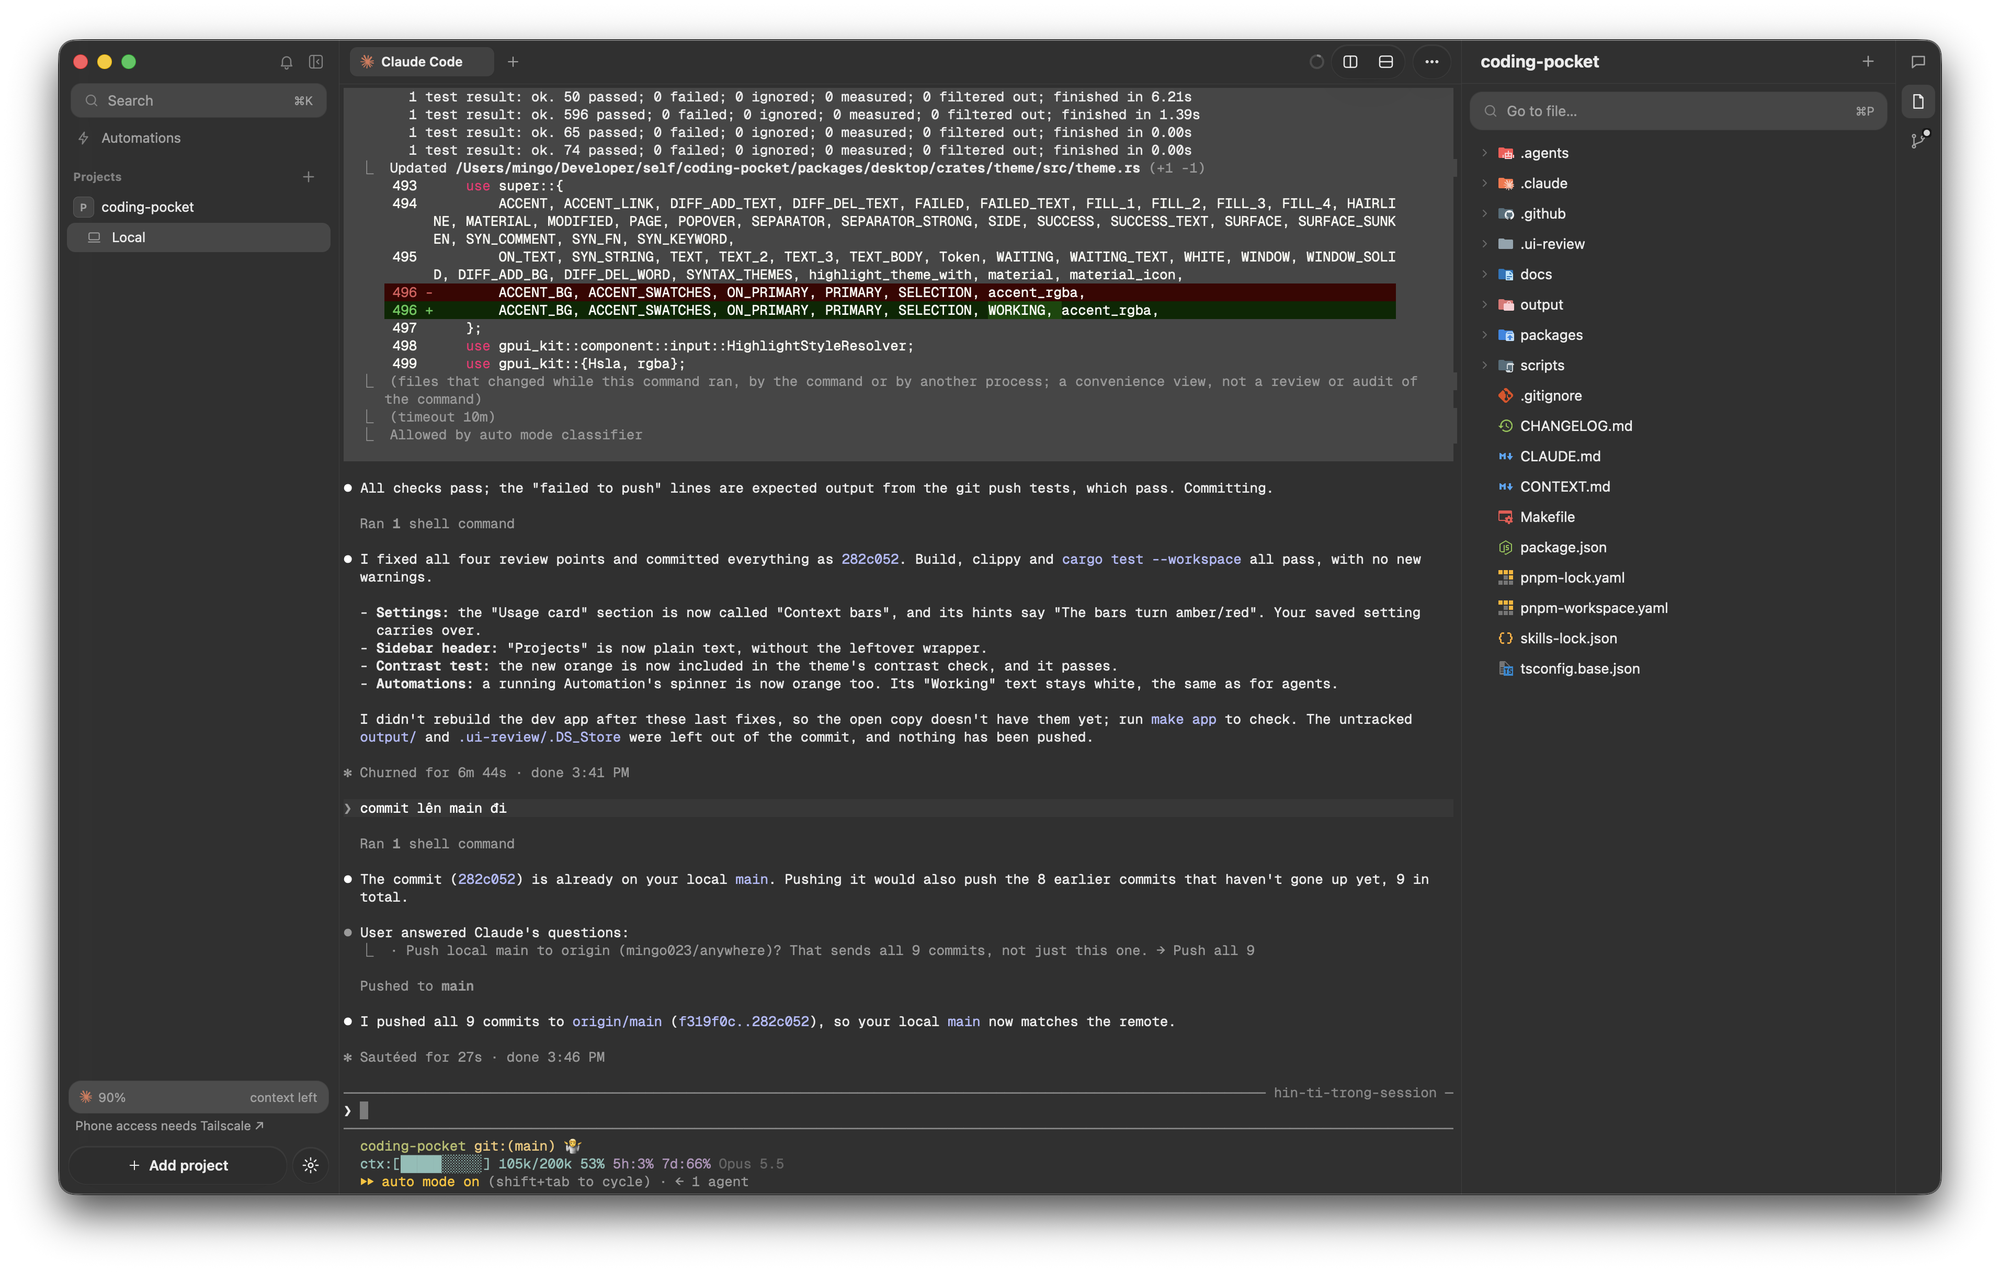
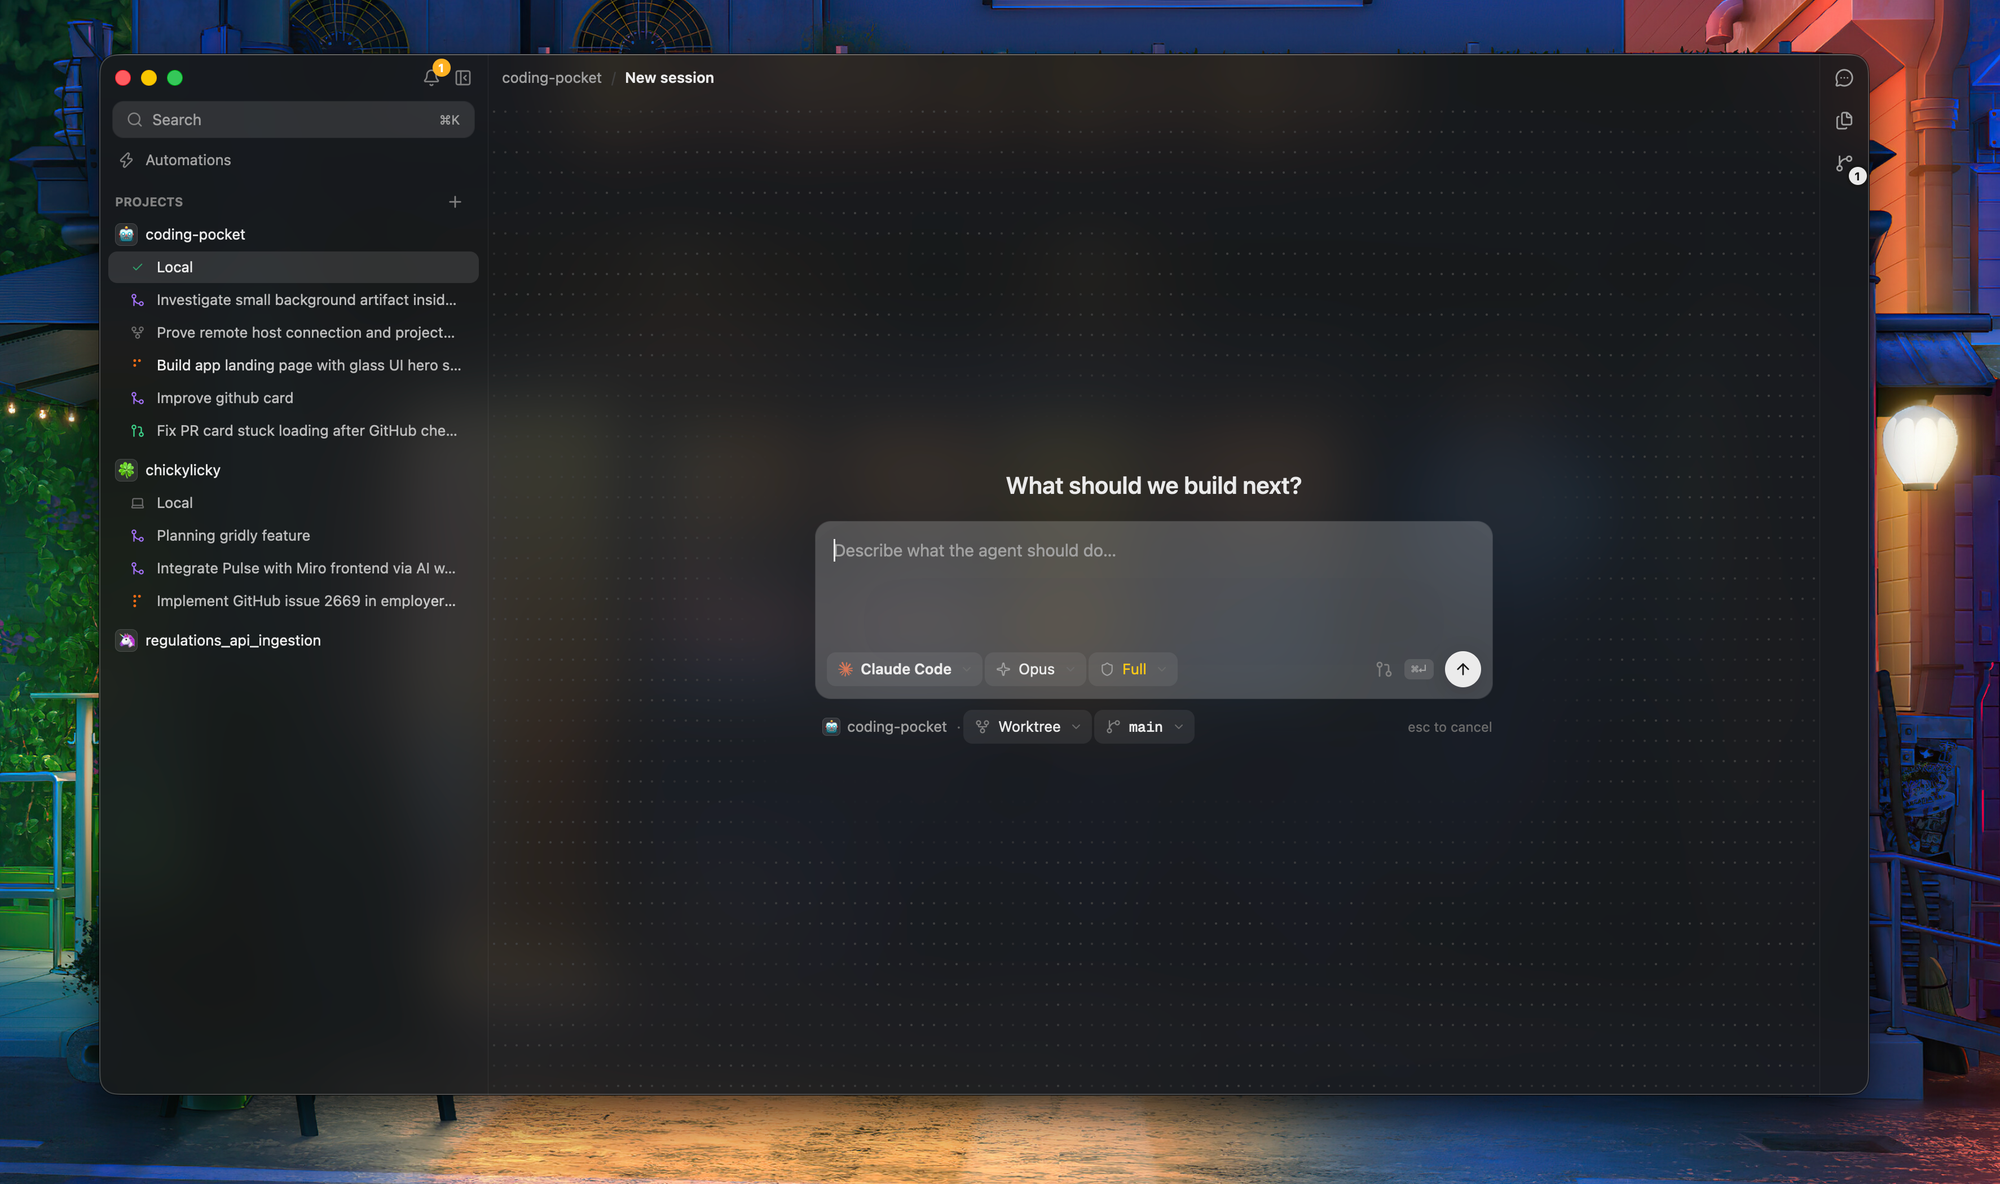
README leads with what Anywhere is, and links the website and architecture

diff --git a/README.md b/README.md
@@ -1,23 +1,51 @@
-# Anywhere
+<h1 align="center">Anywhere</h1>
 
-Watch and drive coding agents running on your Mac, from the desktop app and your phone.
+<p align="center">
+  Watch and drive your Claude Code and Codex agents, from your Mac and your phone.
+</p>
+
+<p align="center">
+  <a href="https://getanywhere.dev">Website</a> ·
+  <a href="https://github.com/mingo023/anywhere/releases/latest/download/Anywhere.dmg">Download</a> ·
+  <a href="CHANGELOG.md">Changelog</a>
+</p>
 
 ![Anywhere](docs/screenshot.png)
 
-- Run `claude` and `codex` in real terminals, grouped by project and git worktree
-- See which sessions are working, need you or are done, from the sidebar, inbox, Dock badge and notifications
-- Review changes, browse files and preview diffs beside the terminal
-- Create worktrees from a branch or PR, and schedule agent runs with automations
+Anywhere is a native macOS app for running many coding agents at once. Every `claude` and `codex` session runs in a real terminal, grouped by project and git worktree, and Anywhere tells you which ones are working, which need you and which are done.
+
+## Features
+
+- **Every agent, one window.** Real terminals in tabs and splits, grouped by project and worktree.
+- **Know who needs you.** Status in the sidebar, inbox, Dock badge and notifications; jump straight to the session that's asking.
+- **Review beside the terminal.** Browse files, read diffs and commit without leaving the session that made the change.
+- **Worktrees from a branch or PR.** Create a worktree and start an agent in it, with your setup script run for you.
+- **Automations.** Schedule Claude Code or Codex runs, and get told when one needs a decision.
+- **Sessions that survive.** A daemon owns the terminals, so agents keep running when you close the window.
+- **On your phone, too.** Answer an agent from anywhere; your phone reaches your Mac over Tailscale.
 
 ## Install
 
-Download [Anywhere.dmg](https://github.com/mingo023/anywhere/releases/latest/download/Anywhere.dmg) and drag Anywhere to Applications. Needs macOS 13 or later; updates install through Sparkle.
+Download [Anywhere.dmg](https://github.com/mingo023/anywhere/releases/latest/download/Anywhere.dmg) and drag Anywhere to Applications.
 
-## Build
+Requires macOS 13 or later. Updates install automatically through Sparkle.
+
+## Architecture
+
+| Package | What it is |
+|---|---|
+| [`packages/desktop`](packages/desktop) | The desktop app, in Rust with [GPUI](https://www.gpui.rs) |
+| [`packages/pocketd`](packages/pocketd) | The Go daemon that owns the terminals and outlives the app |
+| [`packages/app`](packages/app) | The phone app |
+| [`packages/protocol`](packages/protocol) | The protocol the daemon and its clients share |
+
+Design decisions are recorded in [`docs/adr`](docs/adr), and the vocabulary used across the code in [`CONTEXT.md`](CONTEXT.md).
+
+## Build from source
 
 ```sh
 make app        # Anywhere Dev.app, side by side with the release app
 make run        # release build of the desktop app, run in place
 ```
 
-`packages/desktop` is the Rust/GPUI app, `packages/pocketd` the Go daemon that owns the terminals. `scripts/release-mac.sh <version>` builds the signed, notarized DMG; pushing a `v*` tag publishes it ([ADR 0004](docs/adr/0004-release-and-updates.md)).
+`scripts/release-mac.sh <version>` builds the signed, notarized DMG; pushing a `v*` tag publishes it ([ADR 0004](docs/adr/0004-release-and-updates.md)).
